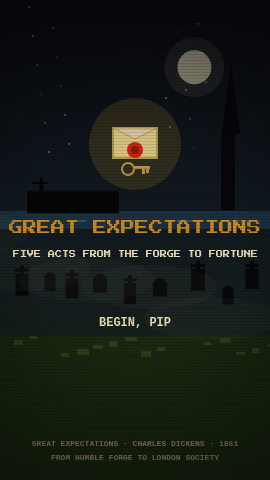
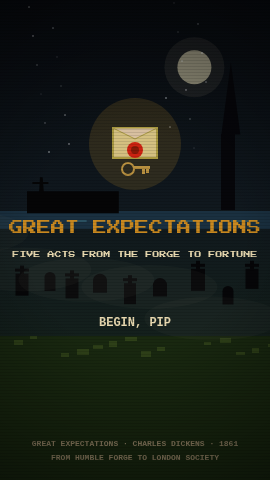
game: rebuild Great Expectations' Satis House as a class-ladder life-choice chapter
Satis House was a fall-catcher (catch cake, dodge rot) — one of REBUILD_QUEUE
#10's flagged move-dodge chapters. It's now five encounters with Estella,
each a Gentleman (STATUS) vs Blacksmith (LOYALTY) choice. No fail state:
the accumulated stats pick one of three chapter endings.

Marshes, Thames and the Wharf confrontation are untouched and still
move-dodge-flavored, so the queue entry is marked PARTIAL rather than
deleted — a future run can pick up the rest.

Re-shot thumbnail, added a per-game headless regression test (including a
5-round choice-completion check), and shipped a changelog entry.

diff --git a/games/greatexpect-pip/game.js b/games/greatexpect-pip/game.js
@@ -2,7 +2,8 @@
  * GREAT EXPECTATIONS — RISE FROM THE FORGE
  * Five acts from Dickens' 1861 novel:
  *   1. THE MARSHES     — free-move stealth: bring provisions to Magwitch (26s)
- *   2. SATIS HOUSE     — fall-catcher: catch cake, dodge rot (collect 12)
+ *   2. SATIS HOUSE     — class-ladder life-choices: Gentleman vs Blacksmith
+ *      picks build STATUS/LOYALTY stats that pick one of three endings
  *   3. JAGGERS' LAW    — pendulum: tap the gavel into the zone 8 times
  *   4. DOWN THE THAMES — runner/dodge: row to the waiting ship (26s)
  *   5. THE CONFRONTATION — dodge + tap: strike Compeyson 5 times
@@ -743,103 +744,90 @@
 
       /* ───────────────────────────────────────────────────────────────
        * ACT 2 — SATIS HOUSE
-       * Fall-catcher: catch good wedding cake pieces (12 needed),
-       * dodge rotten ones (3 rotten = lose). Pip moves left/right.
+       * Class-ladder life-choices: five encounters with Estella, each a
+       * Gentleman (STATUS) vs Blacksmith (LOYALTY) pick. No fail state —
+       * the accumulated stats pick which of three endings Pip lives.
        * ─────────────────────────────────────────────────────────────── */
       {
         id:   'satis',
         name: 'SATIS HOUSE',
-        sub:  'THE ROTTING WEDDING FEAST',
+        sub:  'SHE TEACHES HIM TO WANT MORE',
         icon: function (api, ix, iy) { drawChapterIcon(api, 1, ix, iy); },
         intro: [
           'MISS HAVISHAM STOPPED',
           'ALL THE CLOCKS AT NINE',
           'TWENTY ON HER WEDDING',
-          'MORNING. THE FEAST HAS',
-          'ROTTED FOR DECADES.',
-          'PIP MUST CATCH WHAT',
-          'REMAINS BEFORE IT FALLS.',
+          'MORNING. ESTELLA WATCHES',
+          'PIP WITH COOL CONTEMPT.',
+          'Every answer he gives',
+          'teaches him to want more —',
+          'or to stay who he is.',
         ],
         quote: '"She seemed to have stopped... her own heart." — Dickens, 1861',
-        help:  'Tap LEFT or RIGHT half to move. Catch GOLDEN cake pieces (need 12). Avoid the ROTTEN dark pieces — 3 caught = over!',
-        winText:  'Pip catches enough. Miss Havisham watches from her throne of cobwebs, unmoved.',
-        loseText: 'The rotten feast overwhelms Pip. He retreats from the rotting room.',
+        help:  'TAP a choice each round · lean GENTLEMAN (status) or BLACKSMITH (loyalty) — there is no wrong answer, only an ending',
+        winText:  '',
+        loseText: '',
 
         init: function (api) {
-          var W = api.W;
-          this.px = W / 2;
-          this.speed = 130;
-          this.lives = 3;
-          this.caught = 0;
-          this.need = 12;
-          this.pieces = [];
-          this.spawnT = 0.9;
-          this.elapsed = 0;
-          this.hitCD = 0;
+          this.status = 0; this.loyalty = 0;
+          this.round = 0;
+          this.encounters = [
+            { title: 'ESTELLA CALLS HIS BOOTS "COARSE"', a: { label: 'Look away, ashamed', sub: '(gentleman)', status: 20, loyalty: 0 },
+              b: { label: '"Joe made them himself"', sub: '(blacksmith)', status: 0, loyalty: 20 } },
+            { title: 'SHE OFFERS CARDS — "BEGGAR MY NEIGHBOUR"', a: { label: 'Play to impress her', sub: '(gentleman)', status: 18, loyalty: 0 },
+              b: { label: 'Play like it\'s the forge yard', sub: '(blacksmith)', status: 0, loyalty: 18 } },
+            { title: 'MISS HAVISHAM ASKS: "DO YOU LOVE HER?"', a: { label: 'Yes — desperately', sub: '(gentleman)', status: 24, loyalty: 0 },
+              b: { label: 'I love who I already have', sub: '(blacksmith)', status: 0, loyalty: 24 } },
+            { title: 'ESTELLA STRIKES HIM AND WALKS AWAY', a: { label: 'Vow to become worthy of her', sub: '(gentleman)', status: 22, loyalty: 0 },
+              b: { label: 'Vow never to return', sub: '(blacksmith)', status: 0, loyalty: 22 } },
+            { title: 'THE GATE CLOSES BEHIND HIM', a: { label: 'Dream of a gentleman\'s life', sub: '(gentleman)', status: 20, loyalty: 0 },
+              b: { label: 'Walk home to the forge, glad of it', sub: '(blacksmith)', status: 0, loyalty: 20 } },
+          ];
+          this.active = this.encounters[0];
+          this.feedback = null; this.feedbackT = 0;
+        },
+
+        choiceRects: function (api) {
+          var W = api.W, H = api.H;
+          return [
+            { x: 20, y: H - 130, w: W - 40, h: 44 },
+            { x: 20, y: H - 78, w: W - 40, h: 44 },
+          ];
         },
 
         update: function (api, dt) {
-          var W = api.W, H = api.H;
-          this.elapsed += dt;
-          this.hitCD = Math.max(0, this.hitCD - dt);
-
-          // Move Pip
-          var mv = 0;
-          if (api.keyDown('left')  || (api.pointer.down && api.pointer.x < W / 2)) mv = -1;
-          if (api.keyDown('right') || (api.pointer.down && api.pointer.x > W / 2)) mv =  1;
-          this.px = clamp(this.px + mv * 192 * dt, 22, W - 22);
-
-          // Spawn pieces
-          this.spawnT -= dt;
-          if (this.spawnT <= 0) {
-            // Roughly 60% good, 40% rotten
-            var isGood = Math.random() < 0.6;
-            this.pieces.push({
-              x: 20 + Math.random() * (W - 40),
-              y: -20,
-              good: isGood,
-              spd: this.speed + this.elapsed * 4 + Math.random() * 30,
-            });
-            this.spawnT = 0.70 - Math.min(0.35, this.elapsed * 0.018) + Math.random() * 0.25;
-          }
-
-          // Move pieces down
-          for (var pi = 0; pi < this.pieces.length; pi++) {
-            this.pieces[pi].y += this.pieces[pi].spd * dt;
-          }
-
-          // Catch check (catcher at bottom of screen)
-          var catchY = api.H * 0.85, catchW = 40;
-          for (var pi2 = this.pieces.length - 1; pi2 >= 0; pi2--) {
-            var piece = this.pieces[pi2];
-            if (piece.y >= catchY - 8 && piece.y <= catchY + 8) {
-              if (Math.abs(piece.x - this.px) < catchW) {
-                this.pieces.splice(pi2, 1);
-                if (piece.good) {
-                  this.caught++;
-                  api.addScore(10);
-                  api.audio.sfx('coin');
-                  api.burst(piece.x, catchY, C.cake, 7);
-                } else if (this.hitCD <= 0) {
-                  this.lives--;
-                  this.hitCD = 1.2;
-                  api.shake(6, 0.35);
-                  api.flash(C.rot, 0.3);
-                  api.audio.sfx('hurt');
-                  if (this.lives <= 0) { api.lose(); return; }
+          this.feedbackT = Math.max(0, this.feedbackT - dt);
+          if (this.feedbackT > 0) return;
+          if (!api.pointer.justDown) return;
+          var rects = this.choiceRects(api);
+          var opts = [this.active.a, this.active.b];
+          for (var i = 0; i < 2; i++) {
+            var r = rects[i];
+            if (api.pointer.x >= r.x && api.pointer.x <= r.x + r.w &&
+                api.pointer.y >= r.y && api.pointer.y <= r.y + r.h) {
+              var pick = opts[i];
+              this.status += pick.status;
+              this.loyalty += pick.loyalty;
+              api.addScore(pick.status + pick.loyalty);
+              api.audio.sfx(i === 0 ? 'select' : 'coin');
+              api.burst(api.W / 2, api.H * 0.4, i === 0 ? C.parch : C.amber, 8);
+              this.feedback = pick.label;
+              this.feedbackT = 0.9;
+              this.round++;
+              if (this.round >= this.encounters.length) {
+                if (this.status > this.loyalty + 10) {
+                  this.winText = 'Pip walks out wanting to be a gentleman more than anything in the world. Ambition has him now.';
+                } else if (this.loyalty > this.status + 10) {
+                  this.winText = 'Pip walks out unashamed of the forge. Estella\'s scorn slides off him like rain.';
+                } else {
+                  this.winText = 'Pip walks out torn between two lives — the one he has, and the one he now wants.';
                 }
-                continue;
+                api.win();
+                return;
               }
+              this.active = this.encounters[this.round];
+              break;
             }
-            // Remove pieces that fell off
-            if (piece.y > api.H + 20) {
-              this.pieces.splice(pi2, 1);
-            }
-          }
-
-          if (this.caught >= this.need) {
-            api.addScore(25);
-            api.win();
           }
         },
 
@@ -853,70 +841,60 @@
           c.fillStyle = bg; c.fillRect(0, 0, W, H);
 
           // Long table silhouette at mid-height
-          g.rect(0, H*0.46, W, 12, '#2a1a12');
-          g.rect(8, H*0.46+12, 12, H*0.35, '#1e1208');
-          g.rect(W-20, H*0.46+12, 12, H*0.35, '#1e1208');
+          g.rect(0, H*0.30, W, 12, '#2a1a12');
+          g.rect(8, H*0.30+12, 12, H*0.16, '#1e1208');
+          g.rect(W-20, H*0.30+12, 12, H*0.16, '#1e1208');
 
           // Stopped clock on wall
           c.strokeStyle = '#3a2a1a'; c.lineWidth = 2;
-          c.beginPath(); c.arc(W/2, H*0.16, 22, 0, Math.PI*2); c.stroke();
+          c.beginPath(); c.arc(W/2, H*0.12, 18, 0, Math.PI*2); c.stroke();
           c.strokeStyle = C.brownL; c.lineWidth = 2;
-          // Hands stopped at 9:20
-          c.beginPath(); c.moveTo(W/2, H*0.16); c.lineTo(W/2 - 12, H*0.16 - 8); c.stroke(); // hour 9
-          c.beginPath(); c.moveTo(W/2, H*0.16); c.lineTo(W/2 + 6, H*0.16 - 18); c.stroke(); // min 4
+          c.beginPath(); c.moveTo(W/2, H*0.12); c.lineTo(W/2 - 10, H*0.12 - 6); c.stroke();
+          c.beginPath(); c.moveTo(W/2, H*0.12); c.lineTo(W/2 + 5, H*0.12 - 14); c.stroke();
 
           // Cobwebs in corners
           c.strokeStyle = 'rgba(180,170,150,0.18)'; c.lineWidth = 1;
-          for (var cw = 0; cw < 6; cw++) {
-            c.beginPath(); c.moveTo(0, 0); c.lineTo(cw*12, cw*8); c.stroke();
-          }
-          for (var cw2 = 0; cw2 < 6; cw2++) {
-            c.beginPath(); c.moveTo(W, 0); c.lineTo(W-cw2*12, cw2*8); c.stroke();
-          }
+          for (var cw = 0; cw < 6; cw++) { c.beginPath(); c.moveTo(0, 0); c.lineTo(cw*12, cw*8); c.stroke(); }
+          for (var cw2 = 0; cw2 < 6; cw2++) { c.beginPath(); c.moveTo(W, 0); c.lineTo(W-cw2*12, cw2*8); c.stroke(); }
 
-          // Miss Havisham silhouette (seated in chair)
-          c.fillStyle = '#0a0608';
-          // Chair
-          g.rect(W-52, H*0.54, 32, 40, '#120a08');
-          g.rect(W-56, H*0.42, 40, 12, '#120a08');
-          // Figure
-          g.rect(W-48, H*0.34, 22, 24, '#0a0608');
-          g.circle(W-37, H*0.30, 10, '#0a0608');
-          // Wedding veil (rough drape)
-          c.fillStyle = 'rgba(200,190,170,0.08)';
-          c.fillRect(W-52, H*0.26, 36, 40);
+          // Miss Havisham (left) + Estella (right) flanking the table
+          g.rect(28, H*0.20, 22, 24, '#0a0608');
+          g.circle(39, H*0.17, 10, '#0a0608');
+          c.fillStyle = 'rgba(200,190,170,0.10)'; c.fillRect(24, H*0.13, 30, 34);
+          g.rect(W-50, H*0.20, 20, 24, '#2a1622');
+          g.circle(W-40, H*0.17, 9, '#3a2030');
 
-          // Falling pieces
-          for (var pi = 0; pi < this.pieces.length; pi++) {
-            var piece = this.pieces[pi];
-            var px2 = piece.x, py2 = piece.y;
-            if (piece.good) {
-              // Golden cake slice
-              c.fillStyle = C.cake;
-              c.beginPath();
-              c.moveTo(px2, py2 - 9);
-              c.lineTo(px2 + 8, py2 + 7);
-              c.lineTo(px2 - 8, py2 + 7);
-              c.closePath(); c.fill();
-              c.fillStyle = C.cakeD;
-              c.fillRect(px2 - 8, py2 + 5, 16, 3);
-            } else {
-              // Rotten piece (dark green)
-              c.fillStyle = C.rot;
-              c.fillRect(px2 - 7, py2 - 7, 14, 14);
-              c.fillStyle = C.rotL;
-              c.fillRect(px2 - 4, py2 - 4, 8, 8);
+          // Pip, small, between them
+          drawPip(g, c, W/2, H*0.34);
+
+          // encounter card
+          var cardY = H * 0.42;
+          g.rect(16, cardY, W - 32, 46, '#241614');
+          c.strokeStyle = C.brownL; c.lineWidth = 1; c.strokeRect(16, cardY, W - 32, 46);
+          api.txtCFit(this.active ? this.active.title : '', W / 2, cardY + 8, 9, C.cream, true, W - 44);
+          if (this.feedbackT > 0) api.txtCFit('"' + this.feedback + '"', W / 2, cardY + 26, 8, C.amberL, false, W - 44);
+
+          // choice buttons
+          if (this.feedbackT <= 0 && this.active) {
+            var rects = this.choiceRects(api);
+            var opts = [this.active.a, this.active.b];
+            for (var i = 0; i < 2; i++) {
+              var r = rects[i], o = opts[i];
+              g.rect(r.x, r.y, r.w, r.h, i === 0 ? '#241614' : '#1a2418');
+              c.strokeStyle = i === 0 ? C.parchD : C.green; c.lineWidth = 1; c.strokeRect(r.x, r.y, r.w, r.h);
+              api.txtCFit(o.label, r.x + r.w / 2, r.y + 8, 9, C.cream, false, r.w - 12);
+              api.txtCFit(o.sub, r.x + r.w / 2, r.y + 26, 7, i === 0 ? C.parch : C.greenL, false, r.w - 12);
             }
           }
 
-          // Catcher (Pip's tray)
-          var catchY = H * 0.85;
-          g.rect(this.px - 40, catchY - 4, 80, 8, C.brownL);
-          // Pip above the tray
-          drawPip(g, c, this.px, catchY - 18);
+          // stat bars
+          api.txt('GENTLEMAN', 6, 20, 7, C.amberL, false, true);
+          g.rect(76, 20, W - 130, 6, '#241408');
+          g.rect(76, 20, Math.floor((W - 130) * clamp(this.status / 100, 0, 1)), 6, C.amberL);
+          api.txt('FORGE', 6, 30, 7, C.greenL, false, true);
+          g.rect(56, 30, W - 110, 6, '#0e1a0e');
+          g.rect(56, 30, Math.floor((W - 110) * clamp(this.loyalty / 100, 0, 1)), 6, C.greenL);
 
-          // HUD
-          api.topBar('SATIS HOUSE', this.caught + '/' + this.need, this.lives);
           api.vignette();
           api.scanlines();
         },

diff --git a/js/changelog.js b/js/changelog.js
@@ -10,6 +10,16 @@
 // format stays identical to the rest of the fleet.
 export const CHANGELOG = [
   {
+    v: 127,
+    title: 'Great Expectations: Satis House rebuilt as a class-ladder life-choice chapter',
+    kind: 'game',
+    ts: '2026-07-22T17:06:38.320Z',
+    items: [
+      'The cake-catching minigame at Satis House is now five encounters with Estella — pick a Gentleman or Blacksmith response each round, building STATUS and LOYALTY stats.',
+      'No fail state here: your accumulated choices decide which of three endings Pip lives, ambitious, unashamed, or torn between two lives.',
+    ],
+  },
+  {
     v: 126,
     title: 'White Fang rebuilt: a hunger/cold survival-sim and a pack-dominance strategy chapter replace two near-identical dodges',
     kind: 'game',

diff --git a/games/greatexpect-pip/index.html b/games/greatexpect-pip/index.html
@@ -36,7 +36,7 @@
   <div class="game-main">
     <div id="game"></div>
     <div class="game-help">
-      <b>Great Expectations.</b> Five acts from Dickens' 1861 novel — sneak provisions to Magwitch on the dark marshes, catch wedding cake at Satis House, tap the lawyer's gavel in the golden zone, row Magwitch down the Thames, and face Compeyson in the final confrontation. Tap <b>Full screen</b> for the full experience.
+      <b>Great Expectations.</b> Five acts from Dickens' 1861 novel — sneak provisions to Magwitch on the dark marshes, choose Gentleman or Blacksmith at Satis House, tap the lawyer's gavel in the golden zone, row Magwitch down the Thames, and face Compeyson in the final confrontation. Tap <b>Full screen</b> for the full experience.
       <span class="keys">TAP · DRAG · ARROW KEYS · earn EXPECTATIONS across five acts</span>
     </div>
   </div>

diff --git a/js/catalog.js b/js/catalog.js
@@ -166,7 +166,7 @@ window.POLECAT_CATALOG = [
   { id: "olivertwist-dodge", title: "Please, Sir", source: "Oliver Twist — Charles Dickens", genre: "Pickpocket Stealth", style: "8-bit", accent: "#c88820", status: "live",
     blurb: "Five acts of Dickensian survival — dodge the beadle's cane, pick Fagin's pocket, silence lying witnesses, creep past lantern guards, and flee Bill Sikes on the London rooftops.", tags: ["stealth","arcade","multi-chapter","dickens"] },
   { id: "greatexpect-pip", title: "Great Expectations", source: "Great Expectations — Charles Dickens", genre: "Narrative Adventure", style: "8-bit", accent: "#c88820", status: "live",
-    blurb: "Five acts from Dickens' 1861 classic — sneak provisions to Magwitch on the dark marshes, catch falling cake at Satis House, tap Jaggers' gavel in the golden zone, row Magwitch down the Thames, and face Compeyson in the icy river confrontation.", tags: ["drama","adventure","multi-chapter","dickens"] },
+    blurb: "Five acts from Dickens' 1861 classic — sneak provisions to Magwitch on the dark marshes, choose Gentleman or Blacksmith through five encounters at Satis House, tap Jaggers' gavel in the golden zone, row Magwitch down the Thames, and face Compeyson in the icy river confrontation.", tags: ["drama","adventure","sim","multi-chapter","dickens"] },
   { id: "heidi-alps", title: "Heidi", source: "Heidi — Johanna Spyri", genre: "Alpine Adventure", style: "8-bit", accent: "#f5c842", status: "live",
     blurb: "Five Alpine tales — dodge rocks up to Grandfather's alm, herd Peter's wandering goats, sneak past Miss Rottenmeier in Frankfurt, catch golden memories of home, and encourage Clara to take her first miraculous steps.", tags: ["adventure","cozy","multi-chapter"] },
   { id: "windwillows-toad", title: "The Wind in the Willows", source: "The Wind in the Willows — K. Grahame", genre: "Driving Arcade", style: "8-bit", accent: "#d8a020", status: "live",

diff --git a/REBUILD_QUEUE.md b/REBUILD_QUEUE.md
@@ -12,7 +12,7 @@ queue** in the same commit. Promote to Gen-4 (hub + branches) where noted.
 
 ## Queue
 8. **timemachine-eloi** — already has a custom dial menu + a timing-bar / catch-dodge / stealth-cones / matchlight-gather / dodge-debris spread (this line's old "4/5 dodge, only plain-list menu" description no longer matches the file — checked 2026-07-22). Still a **Gen-4 candidate** (machine-assembly + resource roguelite, branching eras, inventory) if someone wants to build its 16-bit hub version, but not a worst-offender rebuild.
-10. **greatexpect-pip** — 4/5 move-dodge → **class-ladder branching life-RPG**: money/status stats, gentleman-vs-blacksmith choices grow the ending.
+10. **greatexpect-pip** — PARTIAL (2026-07-22): Satis House rebuilt as the gentleman-vs-blacksmith class-ladder chapter (STATUS/LOYALTY stats pick one of three endings). Still 3/4 remaining chapters are move-dodge (marshes, thames, wharf) — the rest of "money/status stats, branching trek" is still open.
 11. **scrooge-carol** — 4/5 catch/dodge/runner → **branching time-travel narrative**: Past/Present/Future choices rewrite a redemption ledger + a coin-sorting puzzle.
 12. **olivertwist-dodge** — 3 side-dodges → **stealth pickpocket sim**: grid lift-timing + a suspicion/heat meter under Fagin.
 13. **littlemermaid-sea** — 4/5 dodge → **potion-brewing ingredient-memory** at the witch's cave + a branching courtship dialogue; keep only the dance as action.